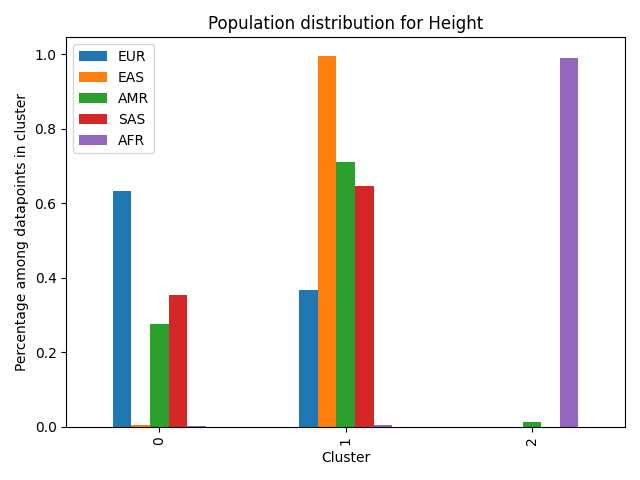
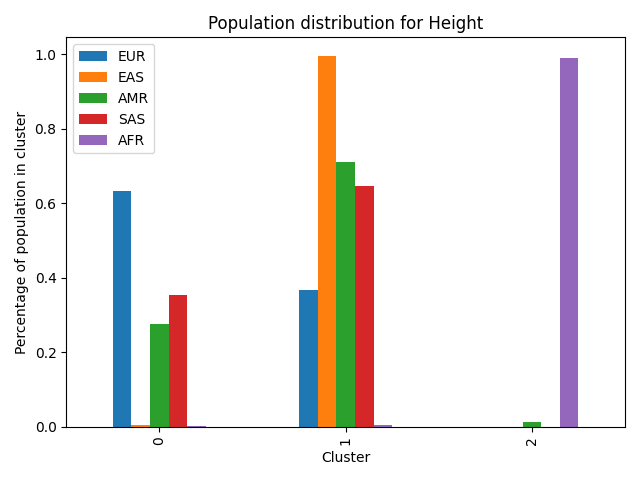
figures ver6

Changed region(s): [[0.0, 0.2188, 0.0625, 0.7812]]

diff --git a/eval/param_runs.py b/eval/param_runs.py
@@ -44,7 +44,7 @@ for filename in filenames:
 
     # label axes and title
     plt.xlabel('Cluster')
-    plt.ylabel('Percentage among datapoints in cluster')
+    plt.ylabel('Percentage of population in cluster')
     if filename == 'Hapset_k3_p5_1.csv':
         cat = 'haplotype set'
     elif filename == 'Coronary_Artery_k3_p24_2.csv':
